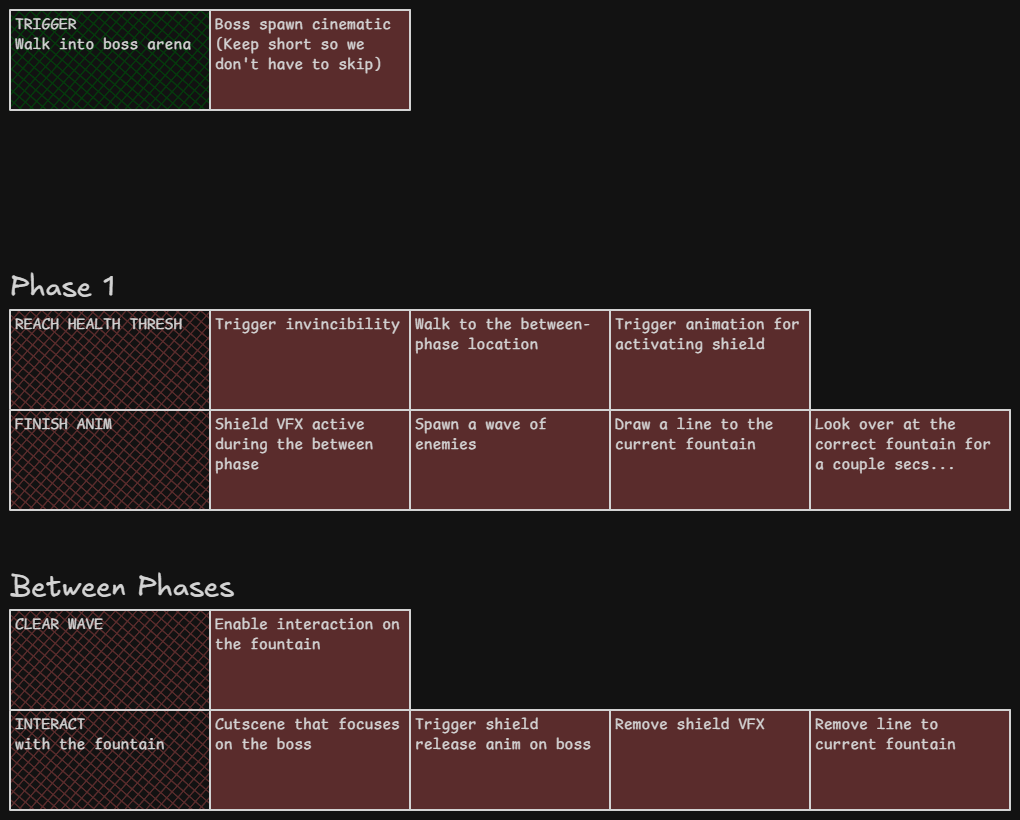
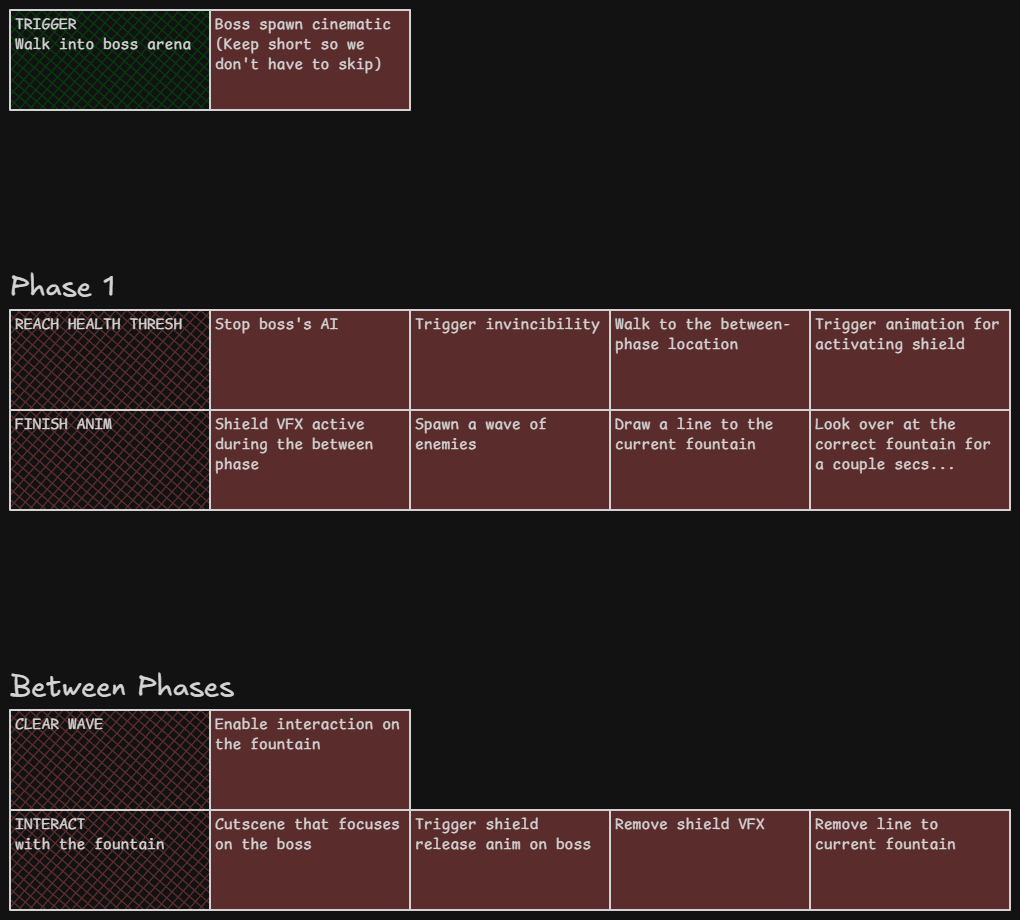
vault backup: 2026-08-04 21:22:32

Changed region(s): [[0.0, 0.3049, 1.0, 0.6402], [0.0, 0.7012, 1.0, 1.0], [0.0, 0.0, 0.4255, 0.1524]]

diff --git a/Projects/Summer Project/Mechanics/Boss/Boss01 Graph.md b/Projects/Summer Project/Mechanics/Boss/Boss01 Graph.md
@@ -53,6 +53,8 @@ Remove shield VFX ^ulyKrC5f
 
 Remove line to current fountain ^8gtpKWE1
 
+Stop boss's AI ^CfxJQ3gM
+
 %%
 ## Drawing
 ```compressed-json
@@ -82,88 +84,90 @@ PRqADH0wQKYli6x2JWOYDzHlAMBaOJFs4yomAABSkhfgphqGmfQvwGIAE1EiGXUACIQ9Z72SpRegJJpr
 
[1 lines of base64/hex data omitted]
 
[2 lines of base64/hex data omitted]
 
[2 lines of base64/hex data omitted]
 
[2 lines of base64/hex data omitted]
 
[2 lines of base64/hex data omitted]
 
[2 lines of base64/hex data omitted]
 
[2 lines of base64/hex data omitted]
 
[2 lines of base64/hex data omitted]
 
[2 lines of base64/hex data omitted]
 
[2 lines of base64/hex data omitted]
 
[2 lines of base64/hex data omitted]
 
[2 lines of base64/hex data omitted]
 
[2 lines of base64/hex data omitted]
 
[2 lines of base64/hex data omitted]
 
[2 lines of base64/hex data omitted]
 
[2 lines of base64/hex data omitted]
 
[2 lines of base64/hex data omitted]
 
[2 lines of base64/hex data omitted]
 
[2 lines of base64/hex data omitted]
 
[2 lines of base64/hex data omitted]
 
[2 lines of base64/hex data omitted]
 
[2 lines of base64/hex data omitted]
 
[2 lines of base64/hex data omitted]
 
[2 lines of base64/hex data omitted]
 
[2 lines of base64/hex data omitted]
 
[2 lines of base64/hex data omitted]
 
[2 lines of base64/hex data omitted]
 
[2 lines of base64/hex data omitted]
 
[2 lines of base64/hex data omitted]
 
[2 lines of base64/hex data omitted]
 
[2 lines of base64/hex data omitted]
 
[2 lines of base64/hex data omitted]
 
[2 lines of base64/hex data omitted]
 
[2 lines of base64/hex data omitted]
 
[2 lines of base64/hex data omitted]
 
[2 lines of base64/hex data omitted]
 
[2 lines of base64/hex data omitted]
 
[2 lines of base64/hex data omitted]
 
[2 lines of base64/hex data omitted]
 
[2 lines of base64/hex data omitted]
 
[2 lines of base64/hex data omitted]
 
[2 lines of base64/hex data omitted]
 
-cBUpIckM+Tiv4xhIQAA=
[1 lines of base64/hex data omitted]
+
[1 lines of base64/hex data omitted]
 ```
 %%
